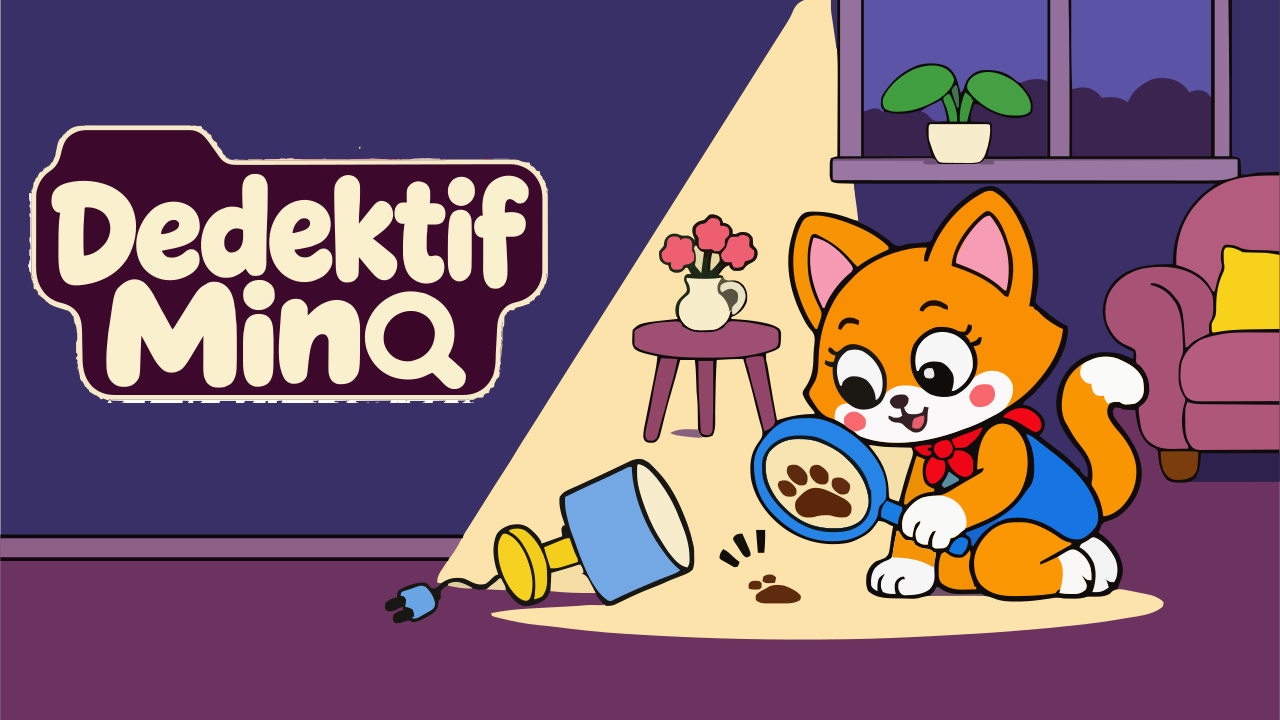
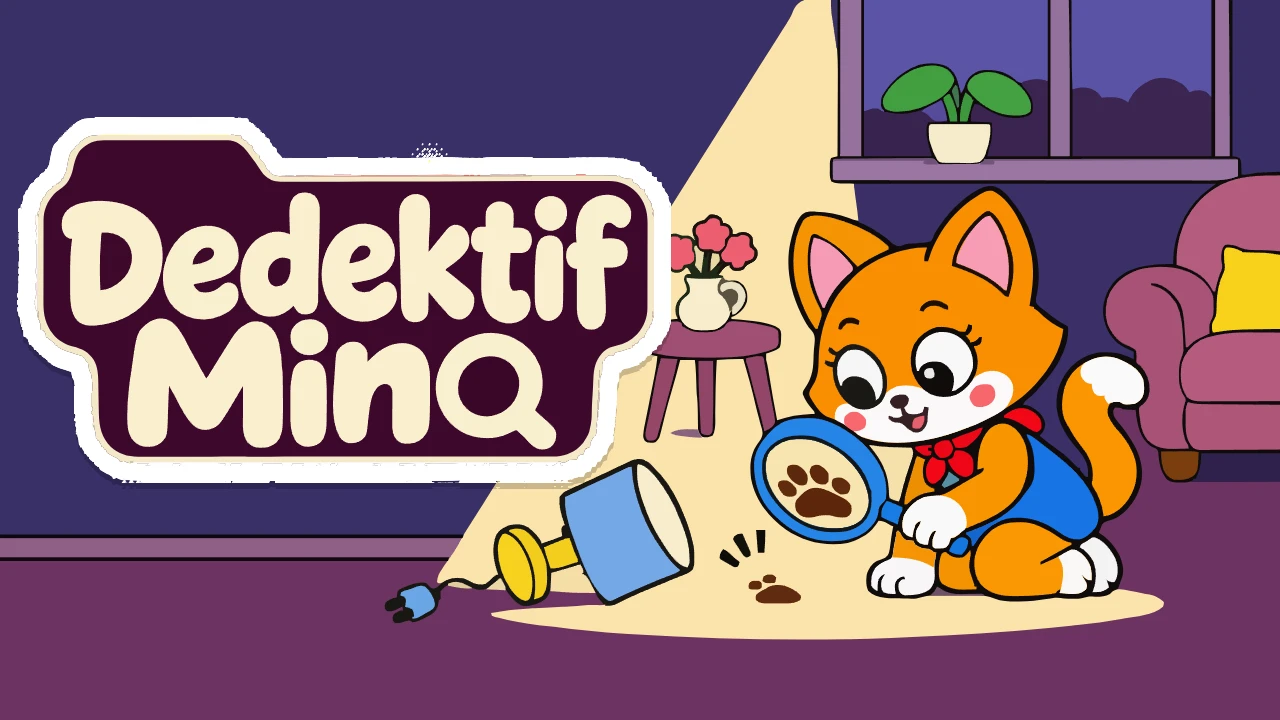
Kapaklar: etkinliklere defter stili, oyun logolari buyudu; Kino Okula Basliyor raftan kalkti; menu genislik siniri kalkti

diff --git a/uygulama/src/yatay-menu.css b/uygulama/src/yatay-menu.css
@@ -58,7 +58,7 @@
 
 /* ---------- 2026-11-10 (Claude, Barış: "ekranı doldurmuyor, görseller gereksiz küçük, yaş sorulmuyor") ---------- */
 /* Ana ekran: dört kart ekranın tamamını kullanır; simgeler kutularını doldurur */
-.ym-ekran .ym-ana { width: 100%; max-width: 1280px; max-height: none; padding: 2px 0 8px; gap: clamp(12px, 3.2vh, 28px) clamp(14px, 2.4vw, 32px); }
+.ym-ekran .ym-ana { width: 100%; max-width: none; max-height: none; padding: 2px 0 8px; gap: clamp(12px, 3.2vh, 28px) clamp(14px, 2.4vw, 32px); }
 .ym-ekran .ym-kategori { padding: clamp(6px, 1.4vh, 12px) clamp(6px, 1.4vh, 12px) 2px; border-width: 4px; border-radius: clamp(18px, 4vh, 30px); box-shadow: 0 clamp(4px, 1.2vh, 8px) 0 var(--ym-kontur); }
 .ym-ekran .ym-kategori:active { transform: translateY(3px); box-shadow: 0 2px 0 var(--ym-kontur); }
 .ym-ekran .ym-simge { border-width: 3px; border-radius: clamp(12px, 3vh, 22px); padding: 3%; }
@@ -117,8 +117,8 @@
 .ym-ekran .ym-panel[aria-label="Oyunlar"] .ym-baslik {color:#302338;text-shadow:none;font-weight:800}
 @media (orientation:landscape) and (max-height:500px) and (min-width:650px) {
   .ym-ekran .ym-panel[aria-label="Oyunlar"] {grid-template-columns:repeat(3,minmax(0,1fr));padding:8px;gap:8px}
-  .ym-ekran .ym-panel[aria-label="Oyunlar"] .ym-icerik img {height:clamp(62px,24vh,116px);aspect-ratio:auto}
+  .ym-ekran .ym-panel:is([aria-label="Oyunlar"],[aria-label="Etkinlikler"]) .ym-icerik img {height:clamp(62px,24vh,116px);aspect-ratio:auto}
 }
-.ym-ekran .ym-panel[aria-label="Oyunlar"] .ym-icerik img {object-fit:contain;background:#fff9e9}
-.ym-ekran .ym-panel[aria-label="Oyunlar"] .ym-icerik img {height:auto;aspect-ratio:16/9}
+.ym-ekran .ym-panel:is([aria-label="Oyunlar"],[aria-label="Etkinlikler"]) .ym-icerik img {object-fit:contain;background:#fff9e9}
+.ym-ekran .ym-panel:is([aria-label="Oyunlar"],[aria-label="Etkinlikler"]) .ym-icerik img {height:auto;aspect-ratio:16/9}
 .ym-ekran .ym-panel:is([aria-label="Oyunlar"],[aria-label="Etkinlikler"]) .ym-ses { top: auto; bottom: 8px; right: 8px; }

diff --git a/kitap/src/kitaplar.ts b/kitap/src/kitaplar.ts
@@ -21,7 +21,7 @@ export const KITAPLAR: RafKitabi[] = [
   { id: 'alisveris', baslik: alisveris.baslik, renk: '#407C70', icerik: alisveris as KitapIcerik },
   { id: 'kurabiye', baslik: kurabiye.baslik, renk: '#B56836', icerik: kurabiye as KitapIcerik },
   { id: 'doktor', baslik: doktor.baslik, renk: '#58B9A5', icerik: doktor as KitapIcerik },
-  { id: 'okul', baslik: 'Kino Okula Başlıyor', renk: '#E2683C', icerik: okul as KitapIcerik, canli: OKUL_CANLI },
+  { id: 'okul', baslik: 'Kino Okula Başlıyor', renk: '#E2683C', icerik: okul as KitapIcerik, canli: OKUL_CANLI, gizli: true },
   // Barış 2026-11-09 yayın: çizimleri gelene kadar "yakında" (metni content/kitap-kuzu-kulak.json; yer tutucu yayına çıkmaz)
   { id: 'kuzu-kulak', baslik: "Kuzu'nun Kulağı", renk: '#7FB3D5' },
   { id: 'dizim', baslik: 'Dizim Kanadı', renk: '#F2A541' },

diff --git a/kitap/src/kitap.ts b/kitap/src/kitap.ts
@@ -31,6 +31,8 @@ export interface RafKitabi {
   /** Hazır kitap (yoksa "yakında" sırtı) */
   icerik?: KitapIcerik;
   canli?: Record<number, SayfaCanli>;
+  /** Rafta ve menüde gösterilmez (Barış 2026-11-10: Kino Okula Başlıyor kaldırıldı); çizimleri öbür kitapların yedeği */
+  gizli?: boolean;
 }
 
 /** Dik kapağın altındaki seri adı */
@@ -156,6 +158,7 @@ export class Kitaplik {
     const raflar = document.createElement('div');
     raflar.className = 'kt-raflar';
     for (const k of this.kitaplar) {
+      if (k.gizli) continue;
       const oge = document.createElement('div');
       oge.className = 'kt-raf-oge';
       if (k.icerik) {

diff --git a/uygulama/src/yatay-menu.ts b/uygulama/src/yatay-menu.ts
@@ -115,7 +115,7 @@ export function yatayMenuEkrani(app: Uygulama): Ekran {
       for (const v of VIDEOLAR) kart(v.baslik, `./izle/?video=${encodeURIComponent(v.id)}`, v.kapak, `izle/${v.id}`);
     } else if (secili.id === 'kitap') {
       for (const kitap of KITAPLAR) {
-        if (!kitap.icerik) continue;
+        if (!kitap.icerik || kitap.gizli) continue;
         const kapak = kitapKapaklari[`../../assets/kitap/${kitap.id}/kapak.webp`] || resim(`kitap/${kitap.id}/kapak-tam`);
         kart(kitap.baslik, `./kitap/?kitap=${encodeURIComponent(kitap.id)}&sayfa=1`, kapak);
       }

diff --git a/ORTAK_NOTLAR.md b/ORTAK_NOTLAR.md
@@ -498,3 +498,5 @@ Kullanıcı: Bilgisayar sıfırlandı; yerel eski çizimler güncel değil. Kara
 - 2026-11-10 (Claude): Etkinlik kapakları (hazirlik, canlan, kartlar, macera) assets/uygulama/oyun-kapaklari, oyunların kendi çizimlerinden; üreten betik scripts/uygulama/etkinlik-kapaklari.mjs. Kartlar adı "Hafıza Kartları" oldu.
 
 - 2026-11-10 (Claude): Paket 361 MB olmuştu. Kino yla Sen Seç çizimleri pakete kayıplı webp girer (kino-ile-sen-sec/paket.ts, 159 MB -> 25 MB, piksel boyutu aynı). Android release AAB de sesler install-time paket android/sesler (android.yml taşır); temel paket ~165 MB. Pastalı yaş ekranı Barış beğenmedi, geri alındı.
+
+- 2026-11-10 (Claude): Etkinlik kapakları yeni stil (noktalı defter zemin, altta bantlı etiket; scripts/uygulama/etkinlik-kapaklari.mjs). Oyun kapaklarında logolar büyütüldü (scripts/uygulama/oyun-kapaklari.mjs, Astra katmanlarından). Kino Okula Başlıyor raftan ve menüden kalktı (gizli: true; çizimleri öbür kitapların yedeği, dosyalar duruyor). Menü genişlik sınırı kalktı.
